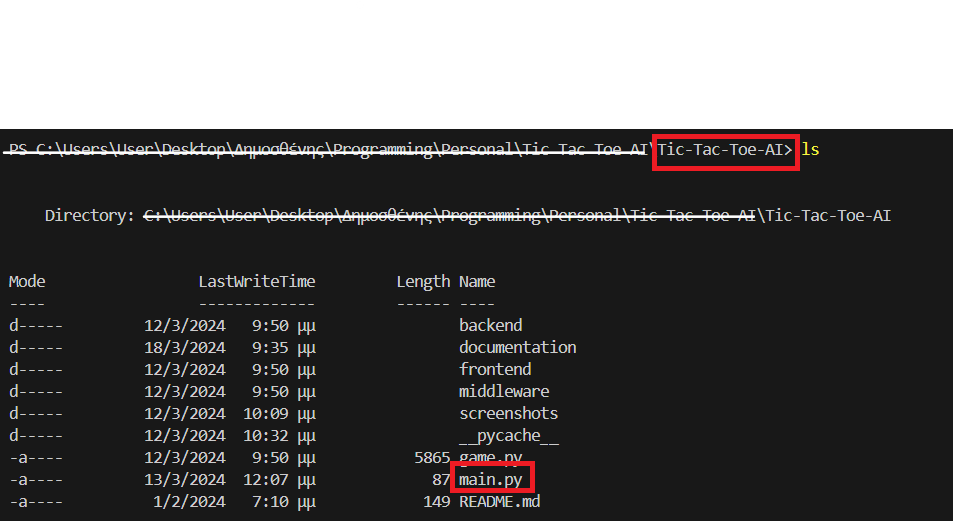
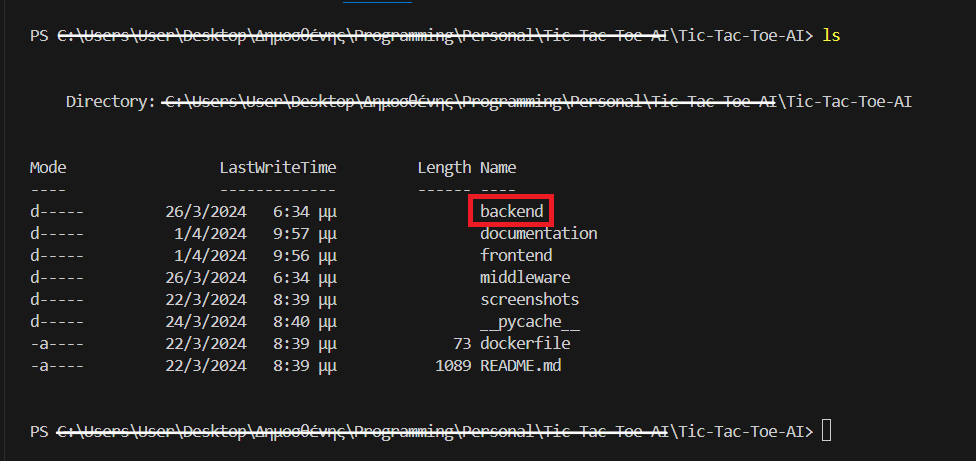
Fixed broken image paths at 2 terminal-based documentation files. Updated some images, updated dockerfile

diff --git a/documentation/How_to_play_in_terminal_with_Docker.md b/documentation/How_to_play_in_terminal_with_Docker.md
@@ -16,11 +16,11 @@ Docker is a technology that helps you create and manage containers. Containers a
 
 Choose the download package that is specific to your operating system. In my case, i use Windows.
 
-![choose_your_platform](https://github.com/DimosTheocharis/Tic-Tac-Toe-AI/blob/BackendDocumentation/screenshots/how_to_download_docker_desktop/choose_your_platform.png) 
+![choose_your_platform](https://github.com/DimosTheocharis/Tic-Tac-Toe-AI/blob/main/screenshots/how_to_download_docker_desktop/choose_your_platform.png) 
 
 ##### C) Click the download button #####
 
-![click_download_button](https://github.com/DimosTheocharis/Tic-Tac-Toe-AI/blob/BackendDocumentation/screenshots/how_to_download_docker_desktop/click_download_button.png) 
+![click_download_button](https://github.com/DimosTheocharis/Tic-Tac-Toe-AI/blob/main/screenshots/how_to_download_docker_desktop/click_download_button.png) 
 
 ##### D) Run the .exe that got downloaded and follow the steps of the download wizard. #####
 
@@ -32,20 +32,20 @@ For example, in Windows the Windows Subsystem for Linux (WSL) is required in ord
 
 ##### A) Copy the project url #####
 
-![copy_clone_url](https://github.com/DimosTheocharis/Tic-Tac-Toe-AI/blob/BackendDocumentation/screenshots/how_to_run_backend/copy_clone_url.png)  
+![copy_clone_url](https://github.com/DimosTheocharis/Tic-Tac-Toe-AI/blob/main/screenshots/how_to_run_backend/copy_clone_url.png)  
 
 ##### B) Open a text editor and clone the project #####
 
 Here i opened Visual Studio Code in a new window (File > New Window).
 
-![clone_project](https://github.com/DimosTheocharis/Tic-Tac-Toe-AI/blob/BackendDocumentation/screenshots/how_to_run_backend/clone_project.png)  
+![clone_project](https://github.com/DimosTheocharis/Tic-Tac-Toe-AI/blob/main/screenshots/how_to_run_backend/clone_project.png)  
 
 
 ### Step 3. Open Docker Desktop ###
 
 ##### A) Find and open the Docker Desktop app  #####
 
-![open_docker_desktop](https://github.com/DimosTheocharis/Tic-Tac-Toe-AI/blob/BackendDocumentation/screenshots/how_to_run_backend/open_docker_desktop.png)
+![open_docker_desktop](https://github.com/DimosTheocharis/Tic-Tac-Toe-AI/blob/main/screenshots/how_to_run_backend/open_docker_desktop.png)
 
 ### Step 4. Run the project using Docker ###
 
@@ -59,17 +59,17 @@ Open the project with Visual Studio Code: File > Open Folder. You should head to
 
 in order to assure that you are in the correct folder.
 
-![head_to_backend_folder](https://github.com/DimosTheocharis/Tic-Tac-Toe-AI/blob/BackendDocumentation/screenshots/how_to_run_backend/head_to_backend_folder_2.png)
+![head_to_backend_folder](https://github.com/DimosTheocharis/Tic-Tac-Toe-AI/blob/main/screenshots/how_to_run_backend/head_to_backend_folder_2.png)
 
 ##### B) Create an image of the project #####
 
 Open a terminal and run:
 
 ```
-    docker build -t terminal-game:v1 .
+    docker build -t terminal-game:v1 -f backend_dockerfile .
 ```
 
-This command will run the code in the `dockerfile` file. It will create an image of the project (called "terminal-game:v1"), ie a shared package containing the code of the project and the instructions to run it.
+This command will run the code in the `backend_dockerfile` file. It will create an image of the project (called "terminal-game:v1"), ie a shared package containing the code of the project and the instructions to run it.
 
 **Note!!** Don't forget the '.' in the end of the command. It tells Docker to look for the `dockerfile` in the same directory you are now.
 
@@ -91,17 +91,17 @@ This command will also run the container in interactive mode, in order to let yo
 
 For example here i placed my symbol 'X' in the third column (column = 2) of the first row (row = 0).
 
-![make_your_move_with_docker](https://github.com/DimosTheocharis/Tic-Tac-Toe-AI/blob/BackendDocumentation/screenshots/how_to_run_backend/make_your_move_with_docker.png)  
+![make_your_move_with_docker](https://github.com/DimosTheocharis/Tic-Tac-Toe-AI/blob/main/screenshots/how_to_run_backend/make_your_move_with_docker.png)  
 
 ##### B) Wait for the algorithm to play #####
 
 Here the algorithm responded with a move at (row, column) = (1, 1), right in the middle of the grid.
 
-![algorithm_makes_its_move](https://github.com/DimosTheocharis/Tic-Tac-Toe-AI/blob/BackendDocumentation/screenshots/how_to_run_backend/algorithm_makes_its_move.png)  
+![algorithm_makes_its_move](https://github.com/DimosTheocharis/Tic-Tac-Toe-AI/blob/main/screenshots/how_to_run_backend/algorithm_makes_its_move.png)  
 
 ##### C) Repeat until game is ended #####
 
-![game_is_terminated](https://github.com/DimosTheocharis/Tic-Tac-Toe-AI/blob/BackendDocumentation/screenshots/how_to_run_backend/game_is_terminated.png)  
+![game_is_terminated](https://github.com/DimosTheocharis/Tic-Tac-Toe-AI/blob/main/screenshots/how_to_run_backend/game_is_terminated.png)  
 
 ## Step 6. Play game again ##
 
@@ -116,7 +116,7 @@ you have to start the same container again, by running:
     docker start -i terminal-first
 ```
 
-![start_container_again](https://github.com/DimosTheocharis/Tic-Tac-Toe-AI/blob/BackendDocumentation/screenshots/how_to_run_backend/start_container_again.png)  
+![start_container_again](https://github.com/DimosTheocharis/Tic-Tac-Toe-AI/blob/main/screenshots/how_to_run_backend/start_container_again.png)  
 
 
 ## Step 7. Clear Data ##

diff --git a/documentation/How_to_play_in_terminal.md b/documentation/How_to_play_in_terminal.md
@@ -11,11 +11,11 @@
 
 ##### B) Find the latest version of python 3 #####
 
-![open_latest_python_version](https://github.com/DimosTheocharis/Tic-Tac-Toe-AI/blob/BackendDocumentation/screenshots/how_to_run_backend/open_latest_python_version.png)  
+![open_latest_python_version](https://github.com/DimosTheocharis/Tic-Tac-Toe-AI/blob/main/screenshots/how_to_run_backend/open_latest_python_version.png)  
 
 ##### C) Head down to files and select the recommended #####
 
-![select_python_version](https://github.com/DimosTheocharis/Tic-Tac-Toe-AI/blob/BackendDocumentation/screenshots/how_to_run_backend/select_python_version.png)  
+![select_python_version](https://github.com/DimosTheocharis/Tic-Tac-Toe-AI/blob/main/screenshots/how_to_run_backend/select_python_version.png)  
 
 ##### D) Run the .exe that got downloaded and follow the steps of the download wizard. #####
 
@@ -29,25 +29,25 @@ Open a terminal and run
 
 in order to see if python is installed in your computer and which version is installed.
 
-![successful_python_download](https://github.com/DimosTheocharis/Tic-Tac-Toe-AI/blob/BackendDocumentation/screenshots/how_to_run_backend/successful_python_download.png)  
+![successful_python_download](https://github.com/DimosTheocharis/Tic-Tac-Toe-AI/blob/main/screenshots/how_to_run_backend/successful_python_download.png)  
 
 ### Step 2. Clone Project ###
 
 ##### A) Copy the project url #####
 
-![copy_clone_url](https://github.com/DimosTheocharis/Tic-Tac-Toe-AI/blob/BackendDocumentation/screenshots/how_to_run_backend/copy_clone_url.png)  
+![copy_clone_url](https://github.com/DimosTheocharis/Tic-Tac-Toe-AI/blob/main/screenshots/how_to_run_backend/copy_clone_url.png)  
 
 ##### B) Open a text editor and clone the project #####
 
 Here i opened Visual Studio Code in a new window (File > New Window).
 
-![clone_project](https://github.com/DimosTheocharis/Tic-Tac-Toe-AI/blob/BackendDocumentation/screenshots/how_to_run_backend/clone_project.png)  
+![clone_project](https://github.com/DimosTheocharis/Tic-Tac-Toe-AI/blob/main/screenshots/how_to_run_backend/clone_project.png)  
 
 ### Step 3. Run main.py
 
 ##### A) Open the cloned project #####
 
-You should head to the folder "Tic-Tac-Toe-AI" where `main.py` file is located. You may run 
+You should head to the folder "Tic-Tac-Toe-AI" where `backend` folder is located. You may run 
 
 ```
     ls
@@ -55,12 +55,12 @@ You should head to the folder "Tic-Tac-Toe-AI" where `main.py` file is located. 
 
 in order to assure that you are in the correct folder.
 
-![head_to_backend_folder](https://github.com/DimosTheocharis/Tic-Tac-Toe-AI/blob/BackendDocumentation/screenshots/how_to_run_backend/head_to_backend_folder.png)  
+![head_to_backend_folder](https://github.com/DimosTheocharis/Tic-Tac-Toe-AI/blob/main/screenshots/how_to_run_backend/head_to_backend_folder.png)  
 
 ##### B) Open the terminal and run: #####
 
 ```
-    python main.py
+    python ./backend/main.py
 ```
 
 ## Step 4. Play the game ##
@@ -69,12 +69,12 @@ in order to assure that you are in the correct folder.
 
 For example here i placed my symbol 'X' in the third column (column = 2) of the first row (row = 0).
 
-![make_your_move](https://github.com/DimosTheocharis/Tic-Tac-Toe-AI/blob/BackendDocumentation/screenshots/how_to_run_backend/make_your_move.png)  
+![make_your_move](https://github.com/DimosTheocharis/Tic-Tac-Toe-AI/blob/main/screenshots/how_to_run_backend/make_your_move.png)  
 
 ##### B) Wait for the algorithm to play #####
 
 Here the algorithm responded with a move at (row, column) = (1, 1), right in the middle of the grid.
 
-![algorithm_makes_its_move](https://github.com/DimosTheocharis/Tic-Tac-Toe-AI/blob/BackendDocumentation/screenshots/how_to_run_backend/algorithm_makes_its_move.png)  
+![algorithm_makes_its_move](https://github.com/DimosTheocharis/Tic-Tac-Toe-AI/blob/main/screenshots/how_to_run_backend/algorithm_makes_its_move.png)  
 
 ##### C) Repeat until game is ended #####
